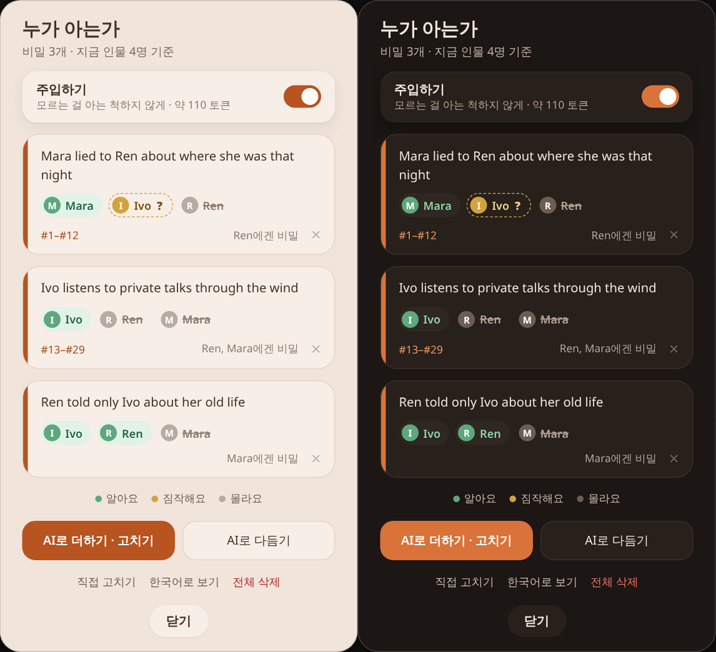
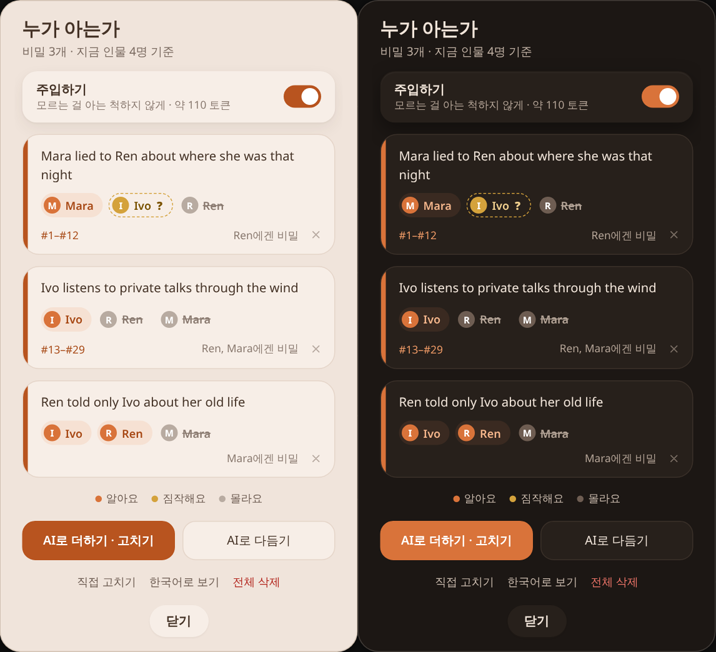
3.167.5: 누가 아는가: 알아요 in the extension's orange in both the example and the list
Claude-Session: https://claude.ai/code/session_01TBUyc5NesEMBcPKHWzpL6W

diff --git a/style.css b/style.css
@@ -7508,3 +7508,7 @@ body.na_darkui .na_kn2 .na_kn_inject { box-shadow: inset 0 1px 0 rgba(255, 255, 
 .na_kn3_tag .na_face { --s: 18px; flex: none; }
 .na_kn3_legbar { display: flex; justify-content: center; gap: 14px; margin: 2px 0 4px; font-size: 11.5px; color: var(--na-mute); }
 .na_kn3_legbar span { display: inline-flex; align-items: center; gap: 5px; }
+/* 누가 아는가: 알아요 in the extension's orange (example and list), so it doesn't fight the orange around it */
+body:not(.na_darkui) .na_kn3_tag.k { background: #F6E1D3 !important; color: #A84A17 !important; }
+body.na_darkui .na_kn3_tag.k { background: #3A2A21 !important; color: #F2B48A !important; }
+.na_kn3_tag.k i, .na_kn3_leg span.k i { background: #D9733A !important; }

diff --git a/src/core.js b/src/core.js
@@ -12,7 +12,7 @@ import { parseSections } from './sections.js';
 
 export const MODULE = 'narrative_archive';
 export const PROMPT_KEY = 'narrative_archive_injection';
-export const VERSION = '3.167.4';
+export const VERSION = '3.167.5';
 export const SNAPSHOT_MAX = 5;
 export const SNAPSHOT_MAX_CHARS = 2_000_000;
 
